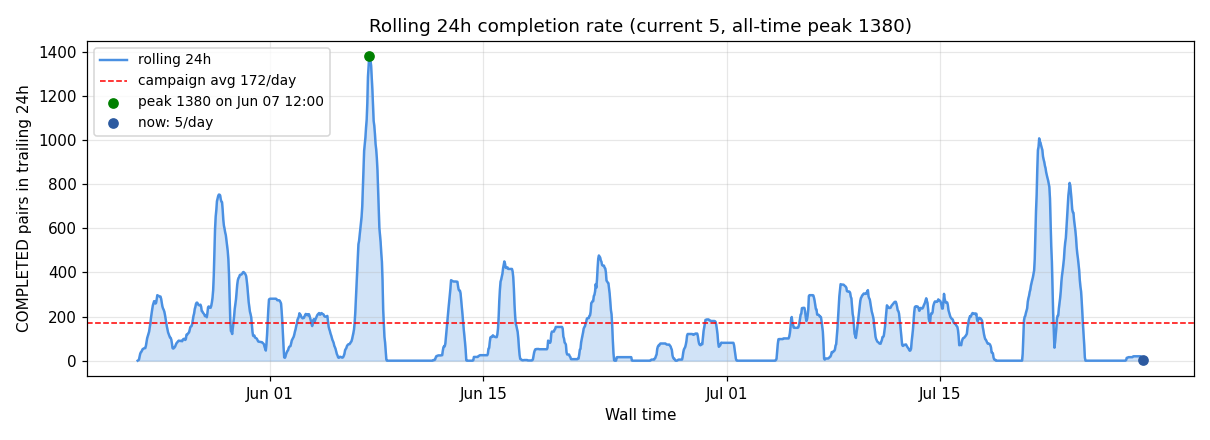
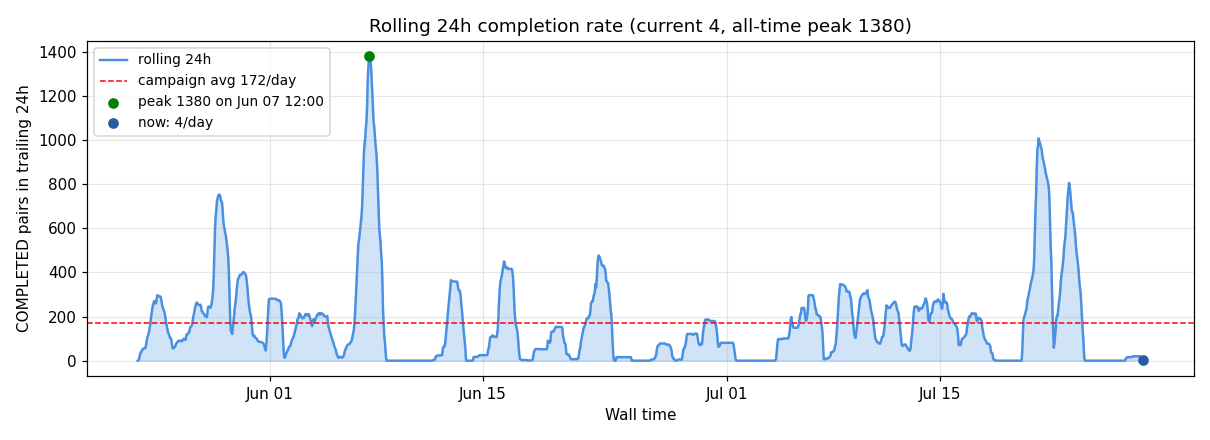
auto: 2026-07-28 08:51:45

diff --git a/index.html b/index.html
@@ -24,12 +24,12 @@ tr:nth-child(even) { background: #fafafa; }
 </style>
 </head><body>
 <h1>AF3 Campaign Dashboard</h1>
-<p class="stamp">Last updated: <strong>2026-07-28 07:51 EDT</strong> · regenerated on the cluster hourly · this page auto-reloads every 30 min</p>
+<p class="stamp">Last updated: <strong>2026-07-28 08:51 EDT</strong> · regenerated on the cluster hourly · this page auto-reloads every 30 min</p>
 
 <div class="cards">
   <div class="card"><div class="v">11,371</div><div class="l">Total COMPLETED pairs</div></div>
   <div class="card"><div class="v">0</div><div class="l">Done today</div></div>
-  <div class="card"><div class="v">5</div><div class="l">Last 24 h rate</div></div>
+  <div class="card"><div class="v">4</div><div class="l">Last 24 h rate</div></div>
   <div class="card"><div class="v">0 / 50</div><div class="l">Running / Pending now</div></div>
 </div>
 
@@ -46,7 +46,7 @@ tr:nth-child(even) { background: #fafafa; }
     <h3>PENDING (50)</h3>
     <div class="queue-table">
       <table><thead><tr><th>Job</th><th>Wait</th><th>Limit</th><th>Reason</th></tr></thead>
-      <tbody><tr><td>p058-p082_af3</td><td>0:00</td><td>30:00</td><td>(Priority)</td></tr><tr><td>p058-p083_af3</td><td>0:00</td><td>30:00</td><td>(Priority)</td></tr><tr><td>p058-p085_af3</td><td>0:00</td><td>30:00</td><td>(Priority)</td></tr><tr><td>p058-p090_af3</td><td>0:00</td><td>30:00</td><td>(Priority)</td></tr><tr><td>p058-p091_af3</td><td>0:00</td><td>30:00</td><td>(Priority)</td></tr><tr><td>p058-p092_af3</td><td>0:00</td><td>30:00</td><td>(Priority)</td></tr><tr><td>p058-p093_af3</td><td>0:00</td><td>30:00</td><td>(Priority)</td></tr><tr><td>p058-p094_af3</td><td>0:00</td><td>30:00</td><td>(Priority)</td></tr><tr><td>p058-p095_af3</td><td>0:00</td><td>30:00</td><td>(Priority)</td></tr><tr><td>p058-p096_af3</td><td>0:00</td><td>30:00</td><td>(Priority)</td></tr><tr><td>p058-p097_af3</td><td>0:00</td><td>30:00</td><td>(Priority)</td></tr><tr><td>p058-p098_af3</td><td>0:00</td><td>30:00</td><td>(Priority)</td></tr><tr><td>p058-p099_af3</td><td>0:00</td><td>30:00</td><td>(Priority)</td></tr><tr><td>p058-p080_af3</td><td>0:00</td><td>30:00</td><td>(Priority)</td></tr><tr><td>p058-p078_af3</td><td>0:00</td><td>30:00</td><td>(Priority)</td></tr><tr><td>p058-p077_af3</td><td>0:00</td><td>30:00</td><td>(Priority)</td></tr><tr><td>p058-p076_af3</td><td>0:00</td><td>30:00</td><td>(Priority)</td></tr><tr><td>p058-p075_af3</td><td>0:00</td><td>30:00</td><td>(Priority)</td></tr><tr><td>p058-p074_af3</td><td>0:00</td><td>30:00</td><td>(Priority)</td></tr><tr><td>p058-p072_af3</td><td>0:00</td><td>30:00</td><td>(Priority)</td></tr><tr><td>p058-p073_af3</td><td>0:00</td><td>30:00</td><td>(Priority)</td></tr><tr><td>p058-p071_af3</td><td>0:00</td><td>30:00</td><td>(Priority)</td></tr><tr><td>p058-p070_af3</td><td>0:00</td><td>30:00</td><td>(Priority)</td></tr><tr><td>p058-p069_af3</td><td>0:00</td><td>30:00</td><td>(Priority)</td></tr><tr><td>p058-p068_af3</td><td>0:00</td><td>30:00</td><td>(Priority)</td></tr><tr><td>p058-p067_af3</td><td>0:00</td><td>30:00</td><td>(Priority)</td></tr><tr><td>p058-p066_af3</td><td>0:00</td><td>30:00</td><td>(Priority)</td></tr><tr><td>p058-p065_af3</td><td>0:00</td><td>30:00</td><td>(Priority)</td></tr><tr><td>p058-p064_af3</td><td>0:00</td><td>30:00</td><td>(Priority)</td></tr><tr><td>p058-p063_af3</td><td>0:00</td><td>30:00</td><td>(Priority)</td></tr><tr><td>p058-p062_af3</td><td>0:00</td><td>30:00</td><td>(Priority)</td></tr><tr><td>p058-p061_af3</td><td>0:00</td><td>30:00</td><td>(Priority)</td></tr><tr><td>p058-p060_af3</td><td>0:00</td><td>30:00</td><td>(Priority)</td></tr><tr><td>p058-p059_af3</td><td>0:00</td><td>30:00</td><td>(Priority)</td></tr><tr><td>p058-p058_af3</td><td>0:00</td><td>30:00</td><td>(Priority)</td></tr><tr><td>p058-p100_af3</td><td>0:00</td><td>30:00</td><td>(Priority)</td></tr><tr><td>p058-p101_af3</td><td>0:00</td><td>30:00</td><td>(Priority)</td></tr><tr><td>p058-p102_af3</td><td>0:00</td><td>30:00</td><td>(Priority)</td></tr><tr><td>p058-p103_af3</td><td>0:00</td><td>30:00</td><td>(Priority)</td></tr><tr><td>p058-p104_af3</td><td>0:00</td><td>30:00</td><td>(Priority)</td></tr><tr><td>p058-p106_af3</td><td>0:00</td><td>30:00</td><td>(Priority)</td></tr><tr><td>p058-p107_af3</td><td>0:00</td><td>30:00</td><td>(Priority)</td></tr><tr><td>p058-p108_af3</td><td>0:00</td><td>30:00</td><td>(Priority)</td></tr><tr><td>p058-p110_af3</td><td>0:00</td><td>30:00</td><td>(Priority)</td></tr><tr><td>p058-p111_af3</td><td>0:00</td><td>30:00</td><td>(Priority)</td></tr><tr><td>p058-p112_af3</td><td>0:00</td><td>30:00</td><td>(Priority)</td></tr><tr><td>p058-p113_af3</td><td>0:00</td><td>30:00</td><td>(Priority)</td></tr><tr><td>p058-p114_af3</td><td>0:00</td><td>30:00</td><td>(Priority)</td></tr><tr><td>p058-p115_af3</td><td>0:00</td><td>30:00</td><td>(Priority)</td></tr><tr><td>p058-p118_af3</td><td>0:00</td><td>30:00</td><td>(Priority)</td></tr></tbody></table>
+      <tbody><tr><td>p058-p058_af3</td><td>0:00</td><td>30:00</td><td>(Priority)</td></tr><tr><td>p058-p059_af3</td><td>0:00</td><td>30:00</td><td>(Priority)</td></tr><tr><td>p058-p060_af3</td><td>0:00</td><td>30:00</td><td>(Priority)</td></tr><tr><td>p058-p061_af3</td><td>0:00</td><td>30:00</td><td>(Priority)</td></tr><tr><td>p058-p062_af3</td><td>0:00</td><td>30:00</td><td>(Priority)</td></tr><tr><td>p058-p063_af3</td><td>0:00</td><td>30:00</td><td>(Priority)</td></tr><tr><td>p058-p064_af3</td><td>0:00</td><td>30:00</td><td>(Priority)</td></tr><tr><td>p058-p065_af3</td><td>0:00</td><td>30:00</td><td>(Priority)</td></tr><tr><td>p058-p066_af3</td><td>0:00</td><td>30:00</td><td>(Priority)</td></tr><tr><td>p058-p067_af3</td><td>0:00</td><td>30:00</td><td>(Priority)</td></tr><tr><td>p058-p068_af3</td><td>0:00</td><td>30:00</td><td>(Priority)</td></tr><tr><td>p058-p069_af3</td><td>0:00</td><td>30:00</td><td>(Priority)</td></tr><tr><td>p058-p070_af3</td><td>0:00</td><td>30:00</td><td>(Priority)</td></tr><tr><td>p058-p071_af3</td><td>0:00</td><td>30:00</td><td>(Priority)</td></tr><tr><td>p058-p072_af3</td><td>0:00</td><td>30:00</td><td>(Priority)</td></tr><tr><td>p058-p073_af3</td><td>0:00</td><td>30:00</td><td>(Priority)</td></tr><tr><td>p058-p074_af3</td><td>0:00</td><td>30:00</td><td>(Priority)</td></tr><tr><td>p058-p075_af3</td><td>0:00</td><td>30:00</td><td>(Priority)</td></tr><tr><td>p058-p076_af3</td><td>0:00</td><td>30:00</td><td>(Priority)</td></tr><tr><td>p058-p077_af3</td><td>0:00</td><td>30:00</td><td>(Priority)</td></tr><tr><td>p058-p078_af3</td><td>0:00</td><td>30:00</td><td>(Priority)</td></tr><tr><td>p058-p080_af3</td><td>0:00</td><td>30:00</td><td>(Priority)</td></tr><tr><td>p058-p082_af3</td><td>0:00</td><td>30:00</td><td>(Priority)</td></tr><tr><td>p058-p083_af3</td><td>0:00</td><td>30:00</td><td>(Priority)</td></tr><tr><td>p058-p085_af3</td><td>0:00</td><td>30:00</td><td>(Priority)</td></tr><tr><td>p058-p090_af3</td><td>0:00</td><td>30:00</td><td>(Priority)</td></tr><tr><td>p058-p091_af3</td><td>0:00</td><td>30:00</td><td>(Priority)</td></tr><tr><td>p058-p092_af3</td><td>0:00</td><td>30:00</td><td>(Priority)</td></tr><tr><td>p058-p093_af3</td><td>0:00</td><td>30:00</td><td>(Priority)</td></tr><tr><td>p058-p094_af3</td><td>0:00</td><td>30:00</td><td>(Priority)</td></tr><tr><td>p058-p095_af3</td><td>0:00</td><td>30:00</td><td>(Priority)</td></tr><tr><td>p058-p096_af3</td><td>0:00</td><td>30:00</td><td>(Priority)</td></tr><tr><td>p058-p097_af3</td><td>0:00</td><td>30:00</td><td>(Priority)</td></tr><tr><td>p058-p098_af3</td><td>0:00</td><td>30:00</td><td>(Priority)</td></tr><tr><td>p058-p099_af3</td><td>0:00</td><td>30:00</td><td>(Priority)</td></tr><tr><td>p058-p100_af3</td><td>0:00</td><td>30:00</td><td>(Priority)</td></tr><tr><td>p058-p101_af3</td><td>0:00</td><td>30:00</td><td>(Priority)</td></tr><tr><td>p058-p102_af3</td><td>0:00</td><td>30:00</td><td>(Priority)</td></tr><tr><td>p058-p103_af3</td><td>0:00</td><td>30:00</td><td>(Priority)</td></tr><tr><td>p058-p104_af3</td><td>0:00</td><td>30:00</td><td>(Priority)</td></tr><tr><td>p058-p106_af3</td><td>0:00</td><td>30:00</td><td>(Priority)</td></tr><tr><td>p058-p107_af3</td><td>0:00</td><td>30:00</td><td>(Priority)</td></tr><tr><td>p058-p108_af3</td><td>0:00</td><td>30:00</td><td>(Priority)</td></tr><tr><td>p058-p110_af3</td><td>0:00</td><td>30:00</td><td>(Priority)</td></tr><tr><td>p058-p111_af3</td><td>0:00</td><td>30:00</td><td>(Priority)</td></tr><tr><td>p058-p112_af3</td><td>0:00</td><td>30:00</td><td>(Priority)</td></tr><tr><td>p058-p113_af3</td><td>0:00</td><td>30:00</td><td>(Priority)</td></tr><tr><td>p058-p114_af3</td><td>0:00</td><td>30:00</td><td>(Priority)</td></tr><tr><td>p058-p115_af3</td><td>0:00</td><td>30:00</td><td>(Priority)</td></tr><tr><td>p058-p118_af3</td><td>0:00</td><td>30:00</td><td>(Priority)</td></tr></tbody></table>
     </div>
   </div>
 </div>
